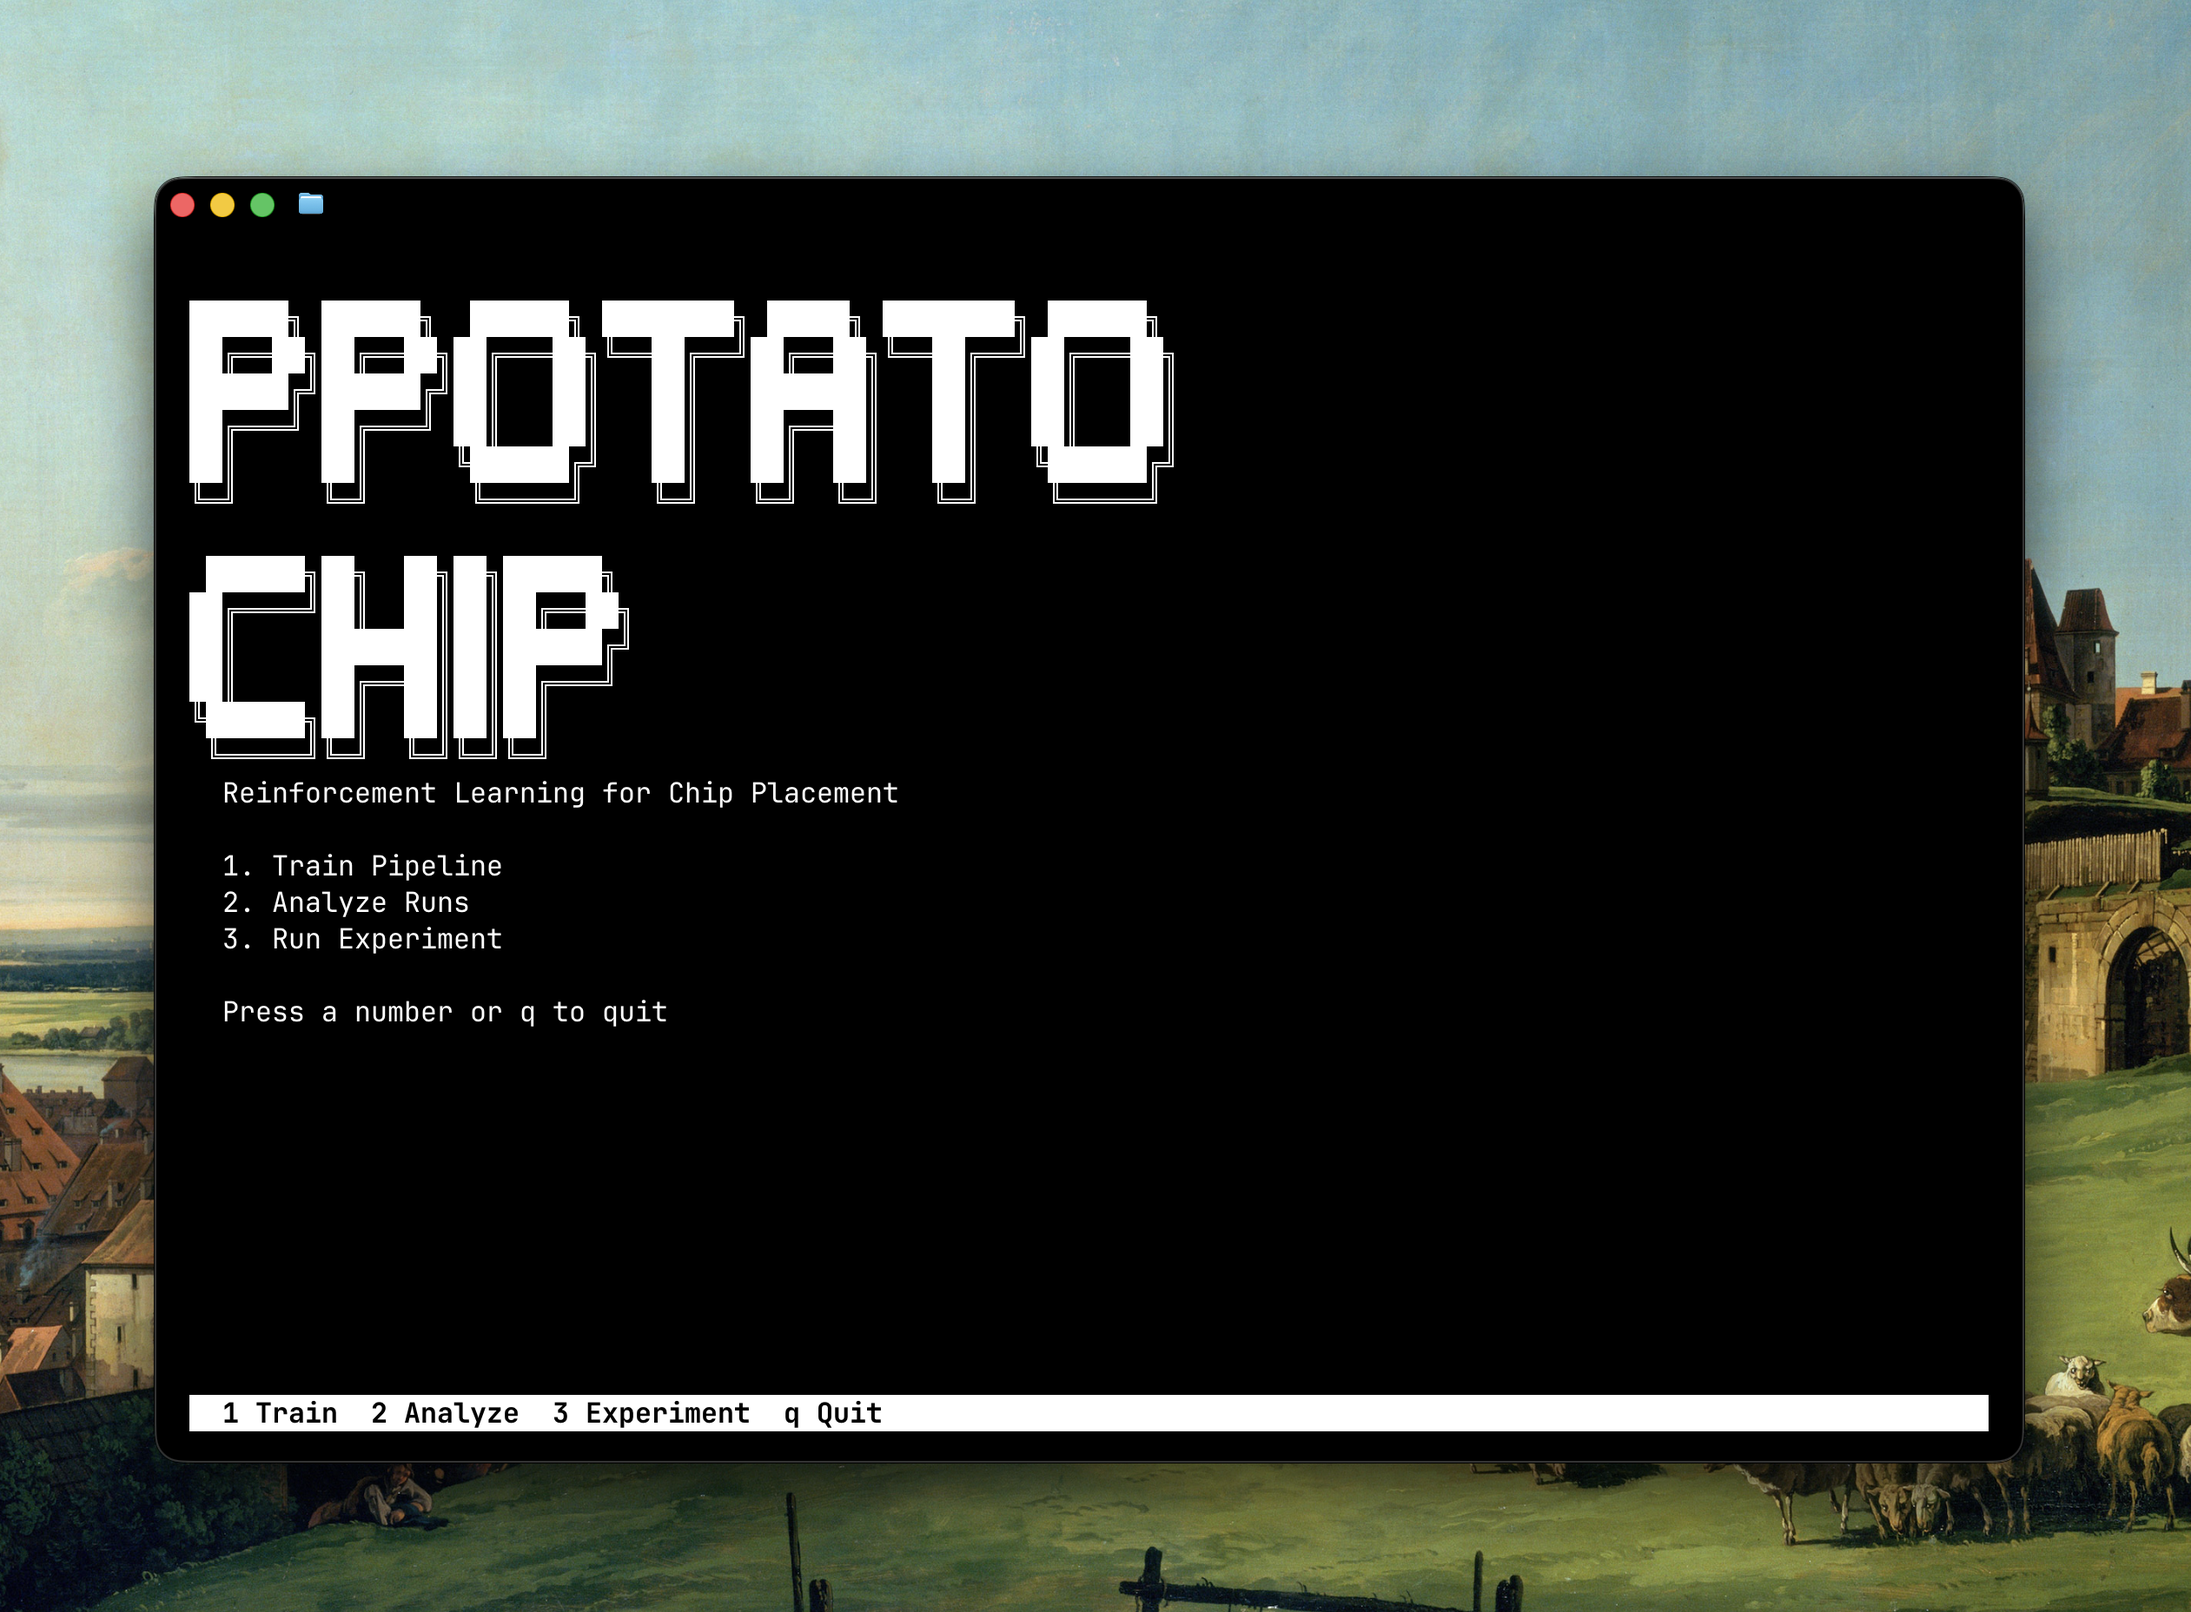
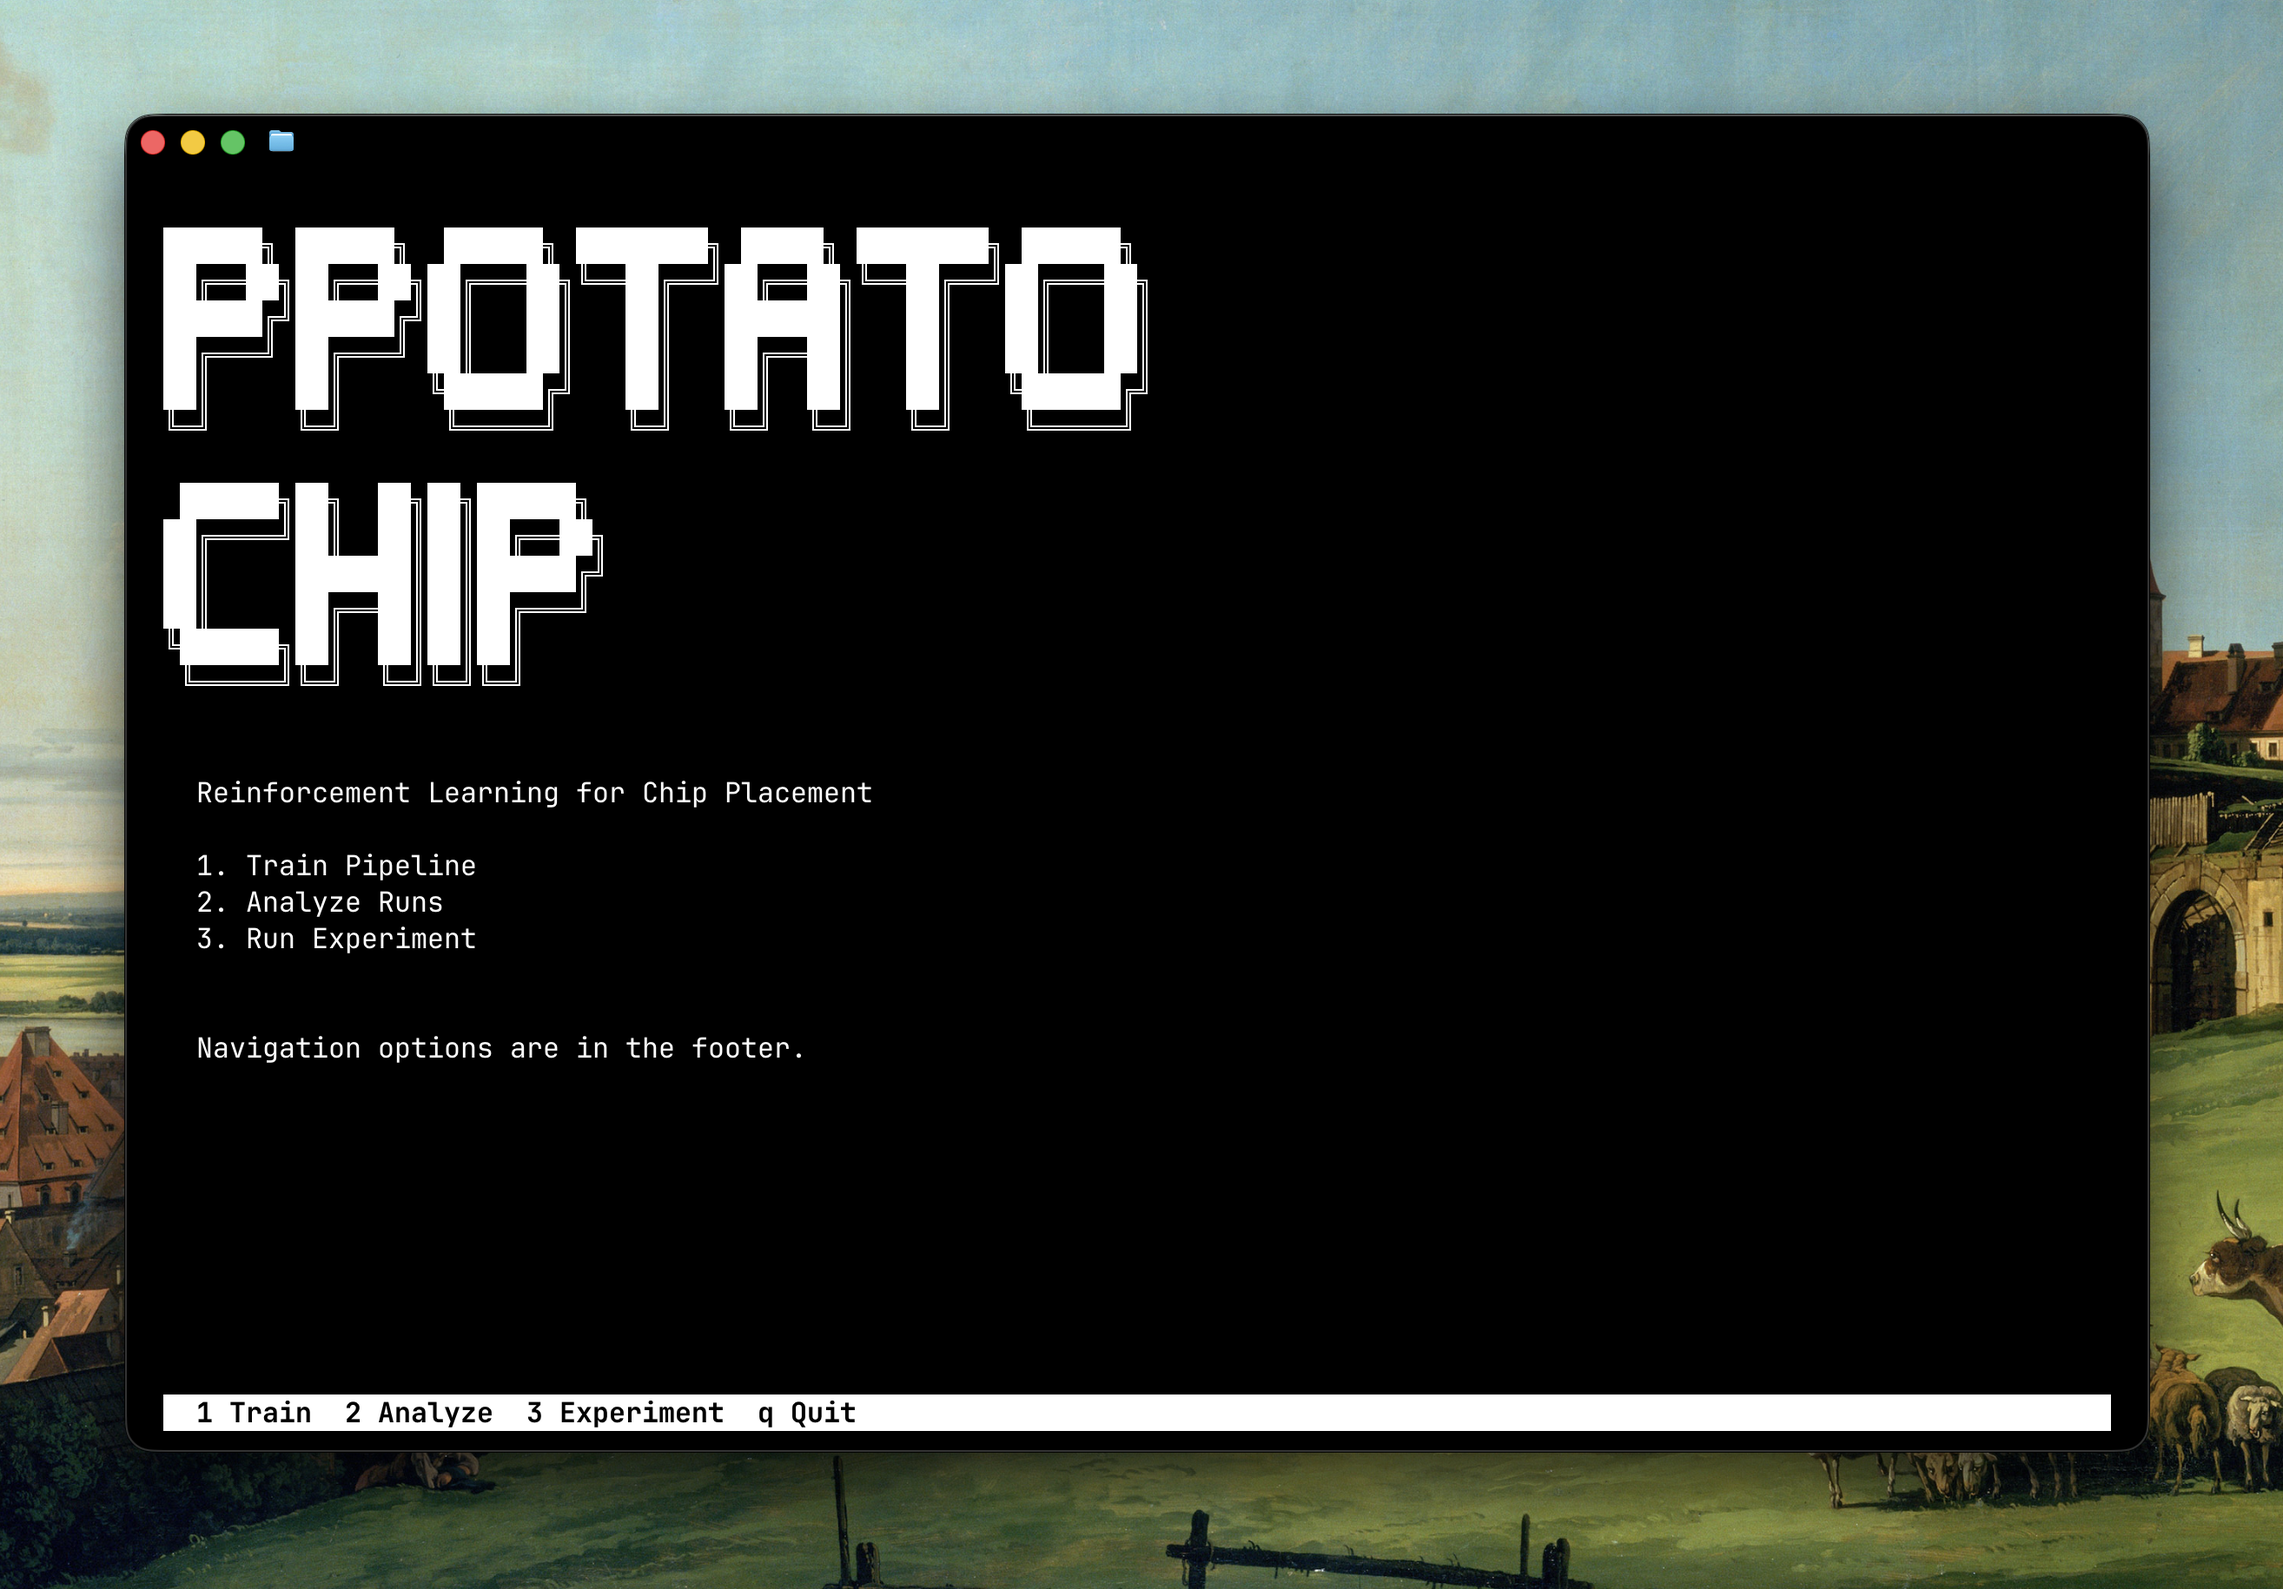
highlight fix, README update, tui_img update

Changed region(s): [[0.0, 0.0311, 1.0, 1.0], [0.2784, 0.623, 0.3402, 0.6852]]

diff --git a/src/cli/screens/experiment_screens.py b/src/cli/screens/experiment_screens.py
@@ -55,6 +55,10 @@ class ExperimentSetupScreen(Screen):
         self._rebuild()
 
     def _rebuild(self):
+        for w in self._widgets:
+            w.update("")
+            w.styles.background = "#000000"
+            w.styles.color = "#ffffff"
         lines = []
         nets = available_netlists() or ["(no netlists)"]
 
@@ -95,6 +99,7 @@ class ExperimentSetupScreen(Screen):
             else:
                 lines.append(("header", f"Values: {self._sweep_values}"))
                 lines.append(("option", "  Press Enter to edit, n for next"))
+            lines.append(("blank", ""))
 
         elif self._phase == "values_range":
             if self._edit_mode:
@@ -103,6 +108,7 @@ class ExperimentSetupScreen(Screen):
             else:
                 lines.append(("header", f"Values: {self._sweep_values}"))
                 lines.append(("option", "  Press Enter to edit, n for next"))
+            lines.append(("blank", ""))
 
         elif self._phase == "num_runs":
             if self._edit_mode:
@@ -111,6 +117,7 @@ class ExperimentSetupScreen(Screen):
             else:
                 lines.append(("header", "Runs per value:"))
                 lines.append(("option", f"  {self._num_runs}"))
+            lines.append(("blank", ""))
 
         elif self._phase == "netlist":
             lines.append(("header", "Netlist:"))

diff --git a/src/cli/screens/main_menu.py b/src/cli/screens/main_menu.py
@@ -28,7 +28,9 @@ class MainMenuScreen(Screen):
 ██║     ███████║██║██████╔╝
 ██║     ██╔══██║██║██╔═══╝
 ╚██████╗██║  ██║██║██║
- ╚═════╝╚═╝  ╚═╝╚═╝╚═╝"""
+ ╚═════╝╚═╝  ╚═╝╚═╝╚═╝
+ 
+ """
         yield Static(logo)
         yield Static("  Reinforcement Learning for Chip Placement")
         yield Static("")
@@ -36,7 +38,8 @@ class MainMenuScreen(Screen):
         yield Static("  2. Analyze Runs")
         yield Static("  3. Run Experiment")
         yield Static("")
-        yield Static("  Press a number or q to quit")
+        yield Static("")
+        yield Static("  Navigation options are in the footer.")
         yield footer_bar("1 Train  2 Analyze  3 Experiment  q Quit")
 
     def action_train(self) -> None:

diff --git a/README.md b/README.md
@@ -5,53 +5,46 @@ Work in progress.
 
 Based on the Google AlphaChip paper - Chip Placement with Deep Reinforcement Learning: arxiv/2004.10746, 2020.
 
----
+## Screenshots
 
 ![TUI](tui_img.png)
 
+-- The TUI.
+<br>
 
 ![Demo placement for ami49](demo_placement.png)
 
--- A demo placement by the model fine-tuned on the xerox netlist and applied on the ami49 netlist
+-- A demo placement by the model fine-tuned on the 10-component xerox netlist and applied on the 49-component ami49 netlist.
 <br>
 <br>
 <br>
 
-The idea is to sequentially place components onto a canvas so wirelength stays 
-low. PPOtatoChip tries to learn that using Proximal Policy Optimization (PPO)
-on Policy Value Networks connected graph neural networks.
+## Pipeline
 
-There are three stages in the pipeline:
+The idea is to sequentially place components on a canvas while keeping wirelength low.
 
-1. **Vanilla PVN** — dumb MLP policy places components one by one, learns
-   from negative HPWL(Half Perimeter Wirelength) reward. This generates a dataset of placements with corresponding HPWL.
-2. **Reward Predictor** — trains a GNN-MLP combo to predict wirelength from the the dataset generated above.
-3. **Graph PPO** — loads that pretrained GNN encoder (or starts from scratch - if you decide not to freeze the encoder)
-   and does actual graph-based placement.
+There are three stages in the training pipeline:
 
-The UI is a **Textual TUI**. Pick a netlist, tweak params, let it train.
-There is an option to cancel mid-run.
+1. **Vanilla PVN** — a policy-value network sequentially place components, using negative HPWL (Half-Perimeter Wirelength) as the reward. Once a placement is complete, Proximal Policy Optimization (PPO) is used to update the network. The placements and their HPWL values are collected into a dataset.
+2. **Reward Predictor** — trains an MLP attached to a Graph Neural Network (GNN) to predict wirelength of a placement using the dataset generated above. The GNN captures the structural relationships between components in the embedding.
+3. **Graph PPO** — the pretrained GNN encoder is attached to a policy-value network and training is done using PPO.
 
-There is also an **experiment system** for parameter sweeps (learning rate,
-model capacity, ablation etc.). It runs multiple seeds and
+The trained model is agnostic of the number of components to be placed and can be applied to a different netlist to generate a placement.
+
+
+## Features
+1. Pick a netlist, tweak the parameters, and start training. Training can be cancelled mid-run.
+
+2. There is an **experiment system** for parameter sweeps (learning rate,
+model capacity etc.). It runs multiple seeds and
 generates a multi-page PDF report with learning curves, HPWL comparisons,
-side-by-side placement grids, summary table.
+side-by-side placement grids, and a summary table.
 
-To run the tui:
-```bash
-python src/cli.py
-```
+3. The `netlists/` directory currently contains five netlists: `xerox`, `ami33`, `ami49`, `apte`, and `hp`. Training outputs are saved to `artifacts/` with timestamps, while plots and analysis are saved to `analysis/`.
 
+## Operation
 
-Five netlists in `netlists/` — xerox, ami33, ami49, apte, hp. Training
-outputs go to `artifacts/` with timestamps. Plots end up in `analysis/`.
-
-I'll make the GNN part actually beat the vanilla baseline
-one of these days.
-
-
-### Dependencies
-
+Dependencies:
 ```
 torch
 torch_geometric
@@ -59,18 +52,17 @@ textual
 matplotlib
 ```
 
----
+Clone the repo, install the dependencies, and run the TUI from inside the PPOtatoChip directory:
+
+```bash
+python src/cli.py
+```
+
+
 
 ## Planned Updates
 
-- **Fix visual bugs** — the tui is functional but sometimes has white bands at random places.
-- **Convergence analysis** — need to think more about this.
-- **Stress-test hyperparameters** — systematically run every knob (clip
-  epsilon, entropy coefficient, hidden dimensions ...) in isolation
-  to see if something breaks.
-- **Better wirelength metric** — HPWL is the standard proxy but it's not
-  great. Look into steiner-tree (and other) alternatives that correlate
-  better with real routing outcomes.
-- **Hybrid with classical placement** — A combination with Simulated Annealing or Force-directed placement might 
-  give better results. In fact in AlphaChip, only the macros are placed using the RL model, while the standard cells are 
-  placed using standard placers.
+- **Convergence analysis** — figure out when training converges.
+- **Better wirelength metric** — HPWL is convenient, but doesn't capture routing 
+quality very well. Try Steiner-tree based metrics and also account for congestion.
+- **Hybrid with classical placement** — try combining RL with Simulated Annealing or Force-directed Placement. AlphaChip uses RL for macros and conventional placers for standard cells.
